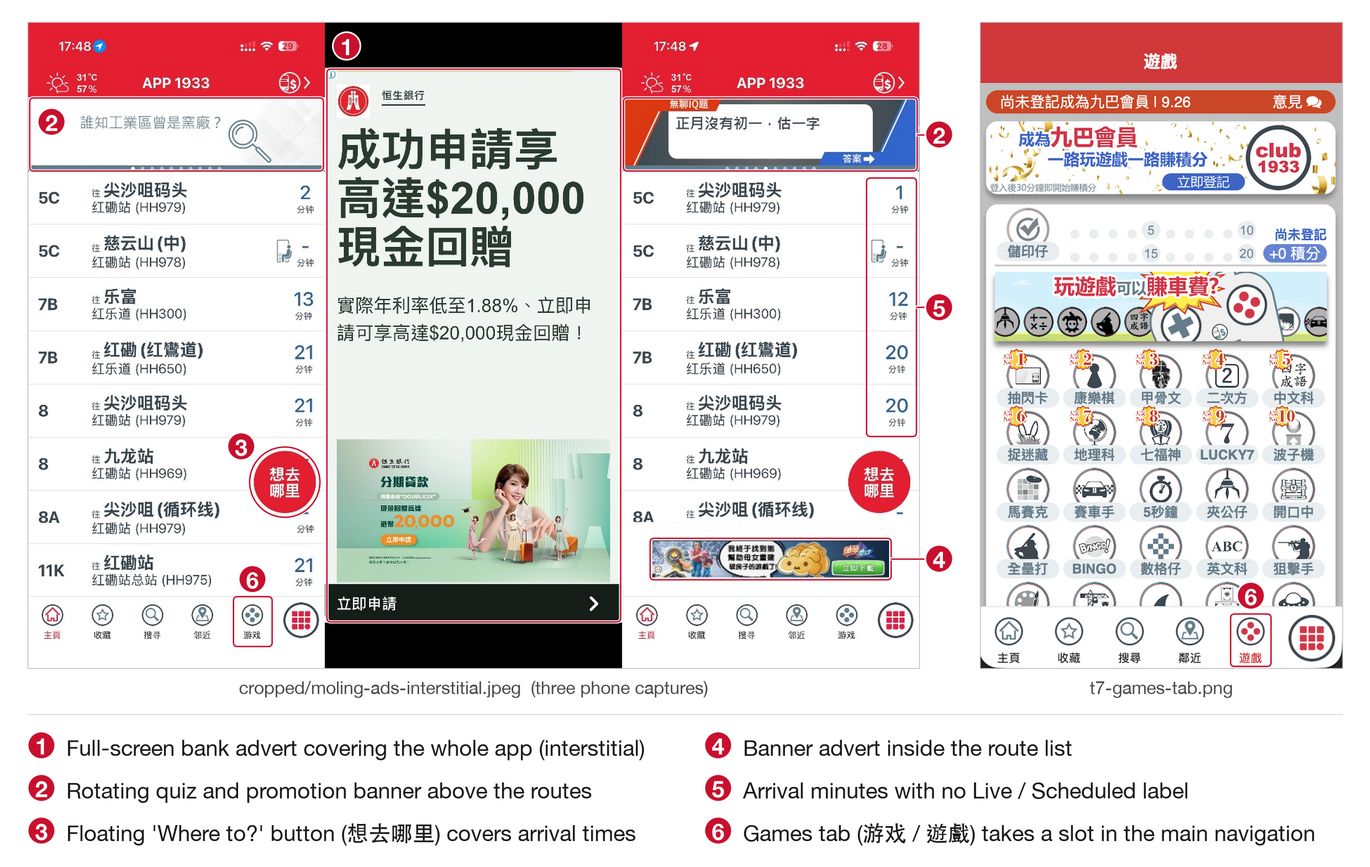
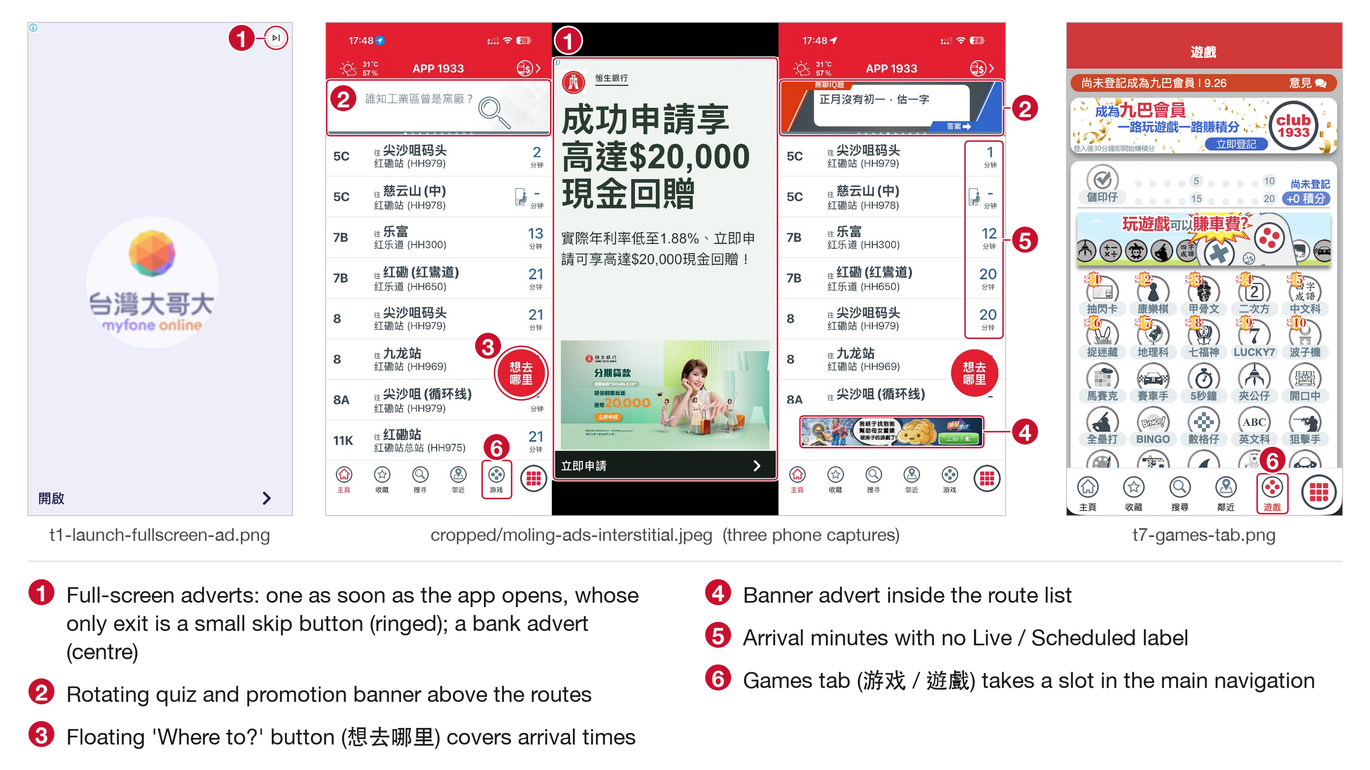
Add iPhone captures of v2.3.39 and correct More menu count to 26
- Seven iPhone screenshots (8 Nov): the full-screen advert shown on
  launch, plus Home, Saved, Search, Games, More and Nearby. Copies are
  in cropped/.
- F1 figure: launch advert added as the left panel, with the small skip
  button ringed. The drafts again say "advert on launch".
- F5 figure now uses the iPhone menu capture: 26 icons. The Mac capture
  cut off the last row, so every "24" in the drafts is now 26.
- Audit: contrast repeated on the iPhone (same failures, plus the
  Nearby empty-state message at 1.66:1); launch-ad skip button size.
- Drafts: banner advert on every main tab; empty Saved gives no hint
  of how to save.

diff --git a/report/figures/annotated/make_figs.py b/report/figures/annotated/make_figs.py
@@ -65,8 +65,14 @@ def f1(outdir):
     ads = Panel(f"{SRC}/cropped/moling-ads-interstitial.jpeg", (0, 0, 1269, 920),
                 "cropped/moling-ads-interstitial.jpeg  (three phone captures)")
     games = png("t7-games-tab.png")
+    # phone capture; drop the black bars above and below the advert (rows 0-141, 1858-1999)
+    launch = Panel(f"{SRC}/t1-launch-fullscreen-ad.png", (0, 142, 920, 1858),
+                   "t1-launch-fullscreen-ad.png")
 
-    def ann(f, a, g):
+    def ann(f, l, a, g):
+        # 1 full-screen advert on opening the app; the only exit is the small skip button
+        f.ring(l, 865, 197, 40)
+        f.marker(l, 1, (745, 197), to=[(825, 197)])
         # 1 full-screen interstitial advert (centre capture)
         f.box(a, 426, 67, 844, 854)
         f.marker(a, 1, (454, 34))
@@ -91,14 +97,14 @@ def f1(outdir):
         f.marker(g, 6, (429, 963))
 
     entries = [
-        (1, "Full-screen bank advert covering the whole app (interstitial)"),
+        (1, "Full-screen adverts: one as soon as the app opens, whose only exit is a small skip button (ringed); a bank advert (centre)"),
         (2, "Rotating quiz and promotion banner above the routes"),
         (3, "Floating 'Where to?' button (想去哪里) covers arrival times"),
         (4, "Banner advert inside the route list"),
         (5, "Arrival minutes with no Live / Scheduled label"),
         (6, "Games tab (游戏 / 遊戲) takes a slot in the main navigation"),
     ]
-    build(f"{outdir}/F1-home-annotated.png", [ads, games], [110], ann, entries,
+    build(f"{outdir}/F1-home-annotated.png", [launch, ads, games], [60, 110], ann, entries,
           ml=50, mr=50, ncol=2)
 
 
@@ -229,35 +235,39 @@ def f4(outdir):
 
 # ---------------------------------------------------------------- F5 More
 def f5(outdir):
-    p1 = png("t6-menu-grid.png")
+    # iPhone capture, v2.3.39: the whole 26-item menu fits on screen
+    p1 = Panel(f"{SRC}/t6-menu-grid-iphone-26-items.png", (0, 0, 920, 2000),
+               "t6-menu-grid-iphone-26-items.png")
     p2 = png("t7-language-no-cancel.png")
 
     def ann(f, a, b):
-        # 1 the 24-icon grid
-        f.box(a, 28, 374, 550, 1007)
-        f.marker(a, 1, (548, 378))
+        # 1 the 26-item grid
+        f.box(a, 58, 572, 862, 1748)
+        f.marker(a, 1, (858, 578))
         # 2 promotions / social media mixed in with service tools
-        f.box(a, 168, 380, 272, 484)
-        f.marker(a, 2, (288, 388))
-        f.box(a, 168, 827, 272, 928)
-        f.marker(a, 2, (288, 834))
-        f.box(a, 433, 827, 537, 928)
-        f.marker(a, 2, (418, 834))
-        f.box(a, 186, 936, 254, 1000)
-        f.marker(a, 2, (275, 966))
+        f.box(a, 279, 582, 429, 735)
+        f.marker(a, 2, (452, 600))
+        f.box(a, 279, 1250, 429, 1402)
+        f.marker(a, 2, (452, 1268))
+        f.box(a, 703, 1250, 853, 1402)
+        f.marker(a, 2, (680, 1268))
+        f.box(a, 279, 1417, 429, 1569)
+        f.marker(a, 2, (452, 1435))
         # 3 no text-size option: bracket on the outer side of the whole menu
-        x, y = f.bracket(a, "L", 374, 1007, 22)
+        x, y = f.bracket(a, "L", 572, 1748, 22)
         f.disc(x - MR + 4, y, 3)
         # 4 language pop-up, no cancel
         f.box(b, 21, 367, 552, 705)
         f.marker(b, 4, (36, 370))
 
     entries = [
-        (1, "24 icons in one unsorted grid"),
+        (1, "26 icons in one unsorted grid"),
         (2, "Promotions and social media (pet bus 寵物巴士, online shopping 網上購物, Facebook, AD HERE) mixed in with service tools"),
         (3, "No text-size or display setting among them"),
         (4, "Language pop-up (請選擇語言) with no Cancel button"),
     ]
+    entries[1] = (2, "Promotions and social media (pet bus 寵物巴士, online shopping 網上購物, "
+                     "Facebook, advertising enquiries 廣告查詢) mixed in with service tools")
     build(f"{outdir}/F5-more-annotated.png", [p1, p2], [80], ann, entries,
           ml=96, mr=50, legend="right", legend_w=960, legend_gap=90, max_scale=1.0)
 

diff --git a/report/figures/audit/contrast_iphone.py b/report/figures/audit/contrast_iphone.py
@@ -1,0 +1,41 @@
+import sys
+from collections import Counter
+from PIL import Image
+
+D = sys.argv[1]
+
+def lin(c):
+    c = c / 255.0
+    return c / 12.92 if c <= 0.04045 else ((c + 0.055) / 1.055) ** 2.4
+
+def lum(p):
+    return 0.2126 * lin(p[0]) + 0.7152 * lin(p[1]) + 0.0722 * lin(p[2])
+
+def ratio(a, b):
+    la, lb = lum(a), lum(b)
+    return (max(la, lb) + 0.05) / (min(la, lb) + 0.05)
+
+def hx(c):
+    return "#%02X%02X%02X" % tuple(c[:3])
+
+ITEMS = [
+    ("t5-nearby-iphone-no-stops.png", (265, 1060, 655, 1118), "Nearby empty state '鄰近沒有任何車站'", 4.5),
+    ("t5-nearby-iphone-no-stops.png", (400, 1455, 520, 1492), "Nearby mode button '車站搜尋' (unselected)", 4.5),
+    ("t5-nearby-iphone-no-stops.png", (638, 1455, 758, 1492), "Nearby mode button '鄰近地標' (unselected)", 4.5),
+    ("t5-nearby-iphone-no-stops.png", (162, 1455, 280, 1492), "Nearby mode button '鄰近車站' (selected)", 4.5),
+    ("t3-search-iphone-keypad-banner-ad.png", (325, 272, 595, 328), "Search placeholder '輸入路線號碼'", 4.5),
+    ("t2-saved-iphone-empty-no-hint.png", (60, 252, 195, 292), "Saved section bar '收藏車站'", 4.5),
+    ("t2-saved-iphone-empty-no-hint.png", (330, 360, 590, 398), "Saved empty state '沒有收藏任何車站'", 4.5),
+    ("t1-home-iphone-no-nearby-stops-banner-ad.png", (360, 1095, 560, 1135), "Home empty state '附近沒有車站'", 4.5),
+    ("t1-home-iphone-no-nearby-stops-banner-ad.png", (345, 160, 575, 215), "Header 'APP 1933' (white on red)", 4.5),
+    ("t6-menu-grid-iphone-26-items.png", (320, 1830, 600, 1895), "More menu version text '程式版本'", 4.5),
+]
+
+for f, box, what, need in ITEMS:
+    px = list(Image.open(f"{D}/{f}").convert("RGB").crop(box).getdata())
+    bg = Counter(px).most_common(1)[0][0]
+    others = sorted((p for p in px if ratio(p, bg) > 1.15), key=lambda p: ratio(p, bg), reverse=True)
+    fg = others[0]
+    robust = others[max(0, len(others) // 20)]  # 95th percentile of text pixels, ignores compression ringing
+    r1, r2 = ratio(fg, bg), ratio(robust, bg)
+    print(f"{what}\tbg {hx(bg)}\textreme {hx(fg)} {r1:.2f}:1\trobust {hx(robust)} {r2:.2f}:1\t{'pass' if r2 >= need else 'FAIL'}")

diff --git a/report/appendix-d-accessibility-audit.md b/report/appendix-d-accessibility-audit.md
@@ -4,6 +4,8 @@
 
 **App audited:** App1933 v2.3.38 (KMB · LWB), the iPhone app, run on a Mac with Apple silicon at the size of a 375 × 667 pt iPhone screen. Interface language 繁體中文.
 
+**Phone check:** on 8 Nov 2026 we also took iPhone screenshots of v2.3.39: the launch advert, Home, Saved, Search, Games, the More menu and Nearby (`*-iphone-*.png`, `t1-launch-fullscreen-ad.png`). They were shared at 920 × 2000 px with lossy compression. For them, the text colour is taken as the 95th percentile of text pixels instead of the single extreme pixel, so compression artefacts cannot inflate the ratio. Script: [figures/audit/contrast_iphone.py](figures/audit/contrast_iphone.py). Every contrast failure found on the Mac build appears on the phone with the same ratio to within 0.05.
+
 ## Method
 
 | Check | How it was measured |
@@ -18,14 +20,14 @@
 | # | Check | Criterion | Result | Evidence |
 |---|---|---|---|---|
 | 1 | Body text, stop names, fares, arrival times, tab labels | 1.4.3 (4.5:1) | **Pass.** Black or near-black text on white, 14.7:1 to 21:1. Blue arrival minutes 9.4:1 (route detail) and 10.6:1 (Saved). Selected tab label in red 6.0:1. | `t1-home-no-location.png`, `t2-stop-expanded-unlabelled-icons.png`, `t2-favourites-after-save.png` |
-| 2 | White text on the red header | 1.4.3 | **Pass, narrowly.** #FFFFFF on #D1383A = 4.84:1. | Figure D.1, panel 4 |
-| 3 | Search placeholder 輸入路線號碼 (the only hint of what to type) | 1.4.3 | **Fail.** #DBDBDB on white = 1.38:1. | Figure D.1, panel 1 |
-| 4 | Nearby mode buttons 鄰近車站 and 鄰近地標 when not selected | 1.4.3 | **Fail.** White on #BABBBB = 1.92:1. These are working buttons, not disabled ones, so the exemption for inactive controls does not apply. | Figure D.1, panel 2 |
-| 5 | White text on the slate bars: Saved section bar 收藏車站, planner summary bar 車程 / 總車資 | 1.4.3 | **Fail, narrowly.** White on #667C89 = 4.37:1. | Figure D.1, panel 3; `t4-planner-N368-no-service-clipped.png` |
+| 2 | White text on the red header | 1.4.3 | **Pass, narrowly.** #FFFFFF on #D1383A = 4.84:1 (Mac build); on the iPhone the red renders as #E51E32, 4.60:1. | Figure D.1, panel 4; `t1-home-iphone-no-nearby-stops-banner-ad.png` |
+| 3 | Search placeholder 輸入路線號碼 (the only hint of what to type) | 1.4.3 | **Fail.** #DBDBDB on white = 1.38:1 (iPhone: 1.36:1). | Figure D.1, panel 1; `t3-search-iphone-keypad-banner-ad.png` |
+| 4 | Nearby screen: unselected mode buttons, selected mode button, empty-state message | 1.4.3 | **Fail.** Unselected buttons: white on #BABBBB = 1.92:1 (iPhone: 1.92:1). These are working buttons, not disabled ones, so the exemption for inactive controls does not apply. On the iPhone the selected button is white on #5F7D8C = 4.31:1. With no stop nearby, the only message on the screen, 鄰近沒有任何車站, is #C9C9C9 on white = 1.66:1. | Figure D.1, panel 2; `t5-nearby-iphone-no-stops.png` |
+| 5 | White text on the slate bars: Saved section bar 收藏車站, planner summary bar 車程 / 總車資 | 1.4.3 | **Fail, narrowly.** White on #667C89 = 4.37:1 (iPhone: #5F7D8C, 4.37:1). | Figure D.1, panel 3; `t4-planner-N368-no-service-clipped.png`; `t2-saved-iphone-empty-no-hint.png` |
 | 6 | Unused letters on the stop-code keypad (B, D, G, I …) | 1.4.3 | **Exempt.** 1.35:1, but they are disabled keys, which WCAG exempts. | `t5-nearby-stop-code-entry.png` |
 | 7 | Icons against their background | 1.4.11 (3:1) | **Pass.** Tab icons 13.0:1; stop action icons (slate circles on white) 4.37:1; favourite star 6.8:1. | Figure D.1, panels 5–6 |
-| 8 | Touch-target size | 2.5.8 (24 pt); Apple 44 pt | **Mixed.** Large enough: tab bar 59 × 62 pt, More button 48 × 48, More grid cells 86 × 61, search keypad keys 70 × 51 and 46 pt circles, stop-code keys 44 × 39, Nearby mode buttons 88 × 46. Meet 24 pt but are under 44 pt: route header icons (timetable, notices, swap) 29 pt; the four stop action icons 26 pt across with centres 33 pt apart; language options 300 × 39; back button 43 × 46. **Fail 2.5.8:** the favourite star in planner results (a box about 17 pt wide) sits inside the result row, which is itself a target, so the spacing exception cannot apply. The planner field's clear button is about 20 pt and sits inside the field; if it is the iOS system clear button, WCAG's user-agent exception covers it. The Saved edit pencil is a 15 pt glyph; its tap area is not exposed, so it could not be measured. | Figure D.1, panels 5–6 |
-| 9 | Text scaling | 1.4.4 | **Fail (in-app); system setting not yet tested.** The More menu lists 24 icons and two text links (九巴會員 … 語言選擇, 資料修復, 使用條款), and none of them changes text size. At the default size, text is already cut off in four places: Home row 中環 (港澳碼頭) -…, route title 8 往 九龍站,高鐵站 (YT…, planner stop 16. HH600) 紅隧轉車 (cut mid-word with no ellipsis) and 暫時沒有預定班次 (. Larger text can only make this worse. Whether the app follows the iPhone's Larger Text setting must be checked on a phone. | `t1-home-no-location.png`, `t2-stop-expanded-unlabelled-icons.png`, `t4-planner-N368-no-service-clipped.png`, `t6-menu-grid.png` |
+| 8 | Touch-target size | 2.5.8 (24 pt); Apple 44 pt | **Mixed.** Large enough: tab bar 59 × 62 pt, More button 48 × 48, More grid cells 86 × 61, search keypad keys 70 × 51 and 46 pt circles, stop-code keys 44 × 39, Nearby mode buttons 88 × 46. Meet 24 pt but are under 44 pt: route header icons (timetable, notices, swap) 29 pt; the four stop action icons 26 pt across with centres 33 pt apart; language options 300 × 39; back button 43 × 46. **Fail 2.5.8:** the favourite star in planner results (a box about 17 pt wide) sits inside the result row, which is itself a target, so the spacing exception cannot apply. The planner field's clear button is about 20 pt and sits inside the field; if it is the iOS system clear button, WCAG's user-agent exception covers it. The Saved edit pencil is a 15 pt glyph; its tap area is not exposed, so it could not be measured. The skip button on the full-screen advert shown at launch is 53 px wide on a 920 px phone capture: 6% of the screen width, roughly 22–25 pt on a phone 375–430 pt wide. That is about the 24 pt minimum and well under 44 pt, and it is the only way past the advert. | Figure D.1, panels 5–6; `t1-launch-fullscreen-ad.png` |
+| 9 | Text scaling | 1.4.4 | **Fail (in-app); system setting not yet tested.** The More menu has 26 items (九巴會員 … 使用條款; all visible in the iPhone capture of v2.3.39), and none of them changes text size. At the default size, text is already cut off in four places: Home row 中環 (港澳碼頭) -…, route title 8 往 九龍站,高鐵站 (YT…, planner stop 16. HH600) 紅隧轉車 (cut mid-word with no ellipsis) and 暫時沒有預定班次 (. Larger text can only make this worse. Whether the app follows the iPhone's Larger Text setting must be checked on a phone. | `t1-home-no-location.png`, `t2-stop-expanded-unlabelled-icons.png`, `t4-planner-N368-no-service-clipped.png`, `t6-menu-grid-iphone-26-items.png` |
 | 10 | Screen-reader names and roles | 1.1.1, 4.1.2 | **Fail (provisional).** *Exposed with useful names:* the six tab buttons (主頁, 收藏, 搜尋, 鄰近, 遊戲, 其他頁面目錄); all 26 items in the More menu; the three language options; the route back button; stop markers on the route map. *Not exposed at all:* on Home, the route rows, the advert banner, the location prompt, the weather and fare buttons, and the 想去邊度 trip-planner button; on route detail, the timetable, notice and swap icons and the whole stop list, including the four stop action icons; on Saved, the saved stop and its arrival time, and the edit button; on Search, the keypad and the result list; on Nearby, the stop-code keypad and the three mode buttons. *Wrong role:* the More menu's 關閉 (Close) is exposed as plain text, not as a button; the search box is exposed as static text, not as a text field. *Language:* the back button is named "Go back" in English while the interface is in Chinese (3.1.2 Language of Parts). | Table D.2 |
 
 > **Figure D.1** Contrast failures and small targets in App1933 v2.3.38. File: [figures/audit/appendix-d-contrast-targets.png](figures/audit/appendix-d-contrast-targets.png). Red boxes are contrast failures, green is a pass, blue marks measured targets.
@@ -64,7 +66,7 @@
 
 ## Lines for the report (§2 or §4, about 60 words)
 
-> We audited App1933 v2.3.38 against four WCAG basics (Appendix D). Main text passes contrast, but the search placeholder (1.38:1), the Nearby mode buttons (1.92:1) and the slate section bars (4.37:1) fail WCAG 1.4.3. The four stop icons are 26 pt, below the 44 pt guideline, and the planner's star fails WCAG 2.5.8. There is no text-size setting, text is already cut off at the default size, and most of the app's content and icon buttons are not exposed to screen readers.
+> We audited App1933 v2.3.38 against four WCAG basics and repeated the contrast checks on an iPhone running v2.3.39 (Appendix D). Main text passes contrast, but the search placeholder (1.4:1), the Nearby mode buttons (1.9:1) and empty-state message (1.7:1), and the slate section bars (4.4:1) fail WCAG 1.4.3. The four stop icons are 26 pt, below the 44 pt guideline, and the planner's star fails WCAG 2.5.8. There is no text-size setting, text is already cut off at the default size, and most of the app's content and icon buttons are not exposed to screen readers.
 
 Adjust the last sentence once the phone checks are done.
 

diff --git a/report/04-feature-details.md b/report/04-feature-details.md
@@ -6,11 +6,11 @@
 
 ## 4.1 F1 Home: saved routes first, honest arrival times, no pop-up ads
 
-**(a) Problem in the existing app.** On a phone, a full-screen bank advert can cover the whole app (Figure 4.1a, centre). Home leads with a rotating banner of quizzes and promotions, a floating "想去哪里" button covers part of the list, and a second banner advert sits at the bottom (right). Routes are listed by stop, not by what the user saved. On Home and in 收藏, the arrival column shows bare numbers, so a live estimate and a scheduled departure look the same; only the expanded stop in route detail adds 預定班次 (Scheduled) to scheduled times. The bottom bar gives a whole tab to mini-games.
+**(a) Problem in the existing app.** Opening App1933 on a phone shows a full-screen advert straight away (Figure 4.1a, left). The only way past it is a small skip button (▶|) in the top corner, about 6% of the screen width, while a full-width 開啟 (Open) bar at the bottom belongs to the advert. Our other phone captures show a second full-screen advert, for a bank (centre). Home then leads with a rotating banner of quizzes and promotions, a floating "想去哪里" button (renamed 智能問路 in v2.3.39) covers part of the list, and a second banner advert sits at the bottom (right). Our iPhone captures of v2.3.39 show a banner advert above the tab bar on every main tab: Home, 收藏, 搜尋, 鄰近 and 遊戲 (`*-iphone-*.png`). Routes are listed by stop, not by what the user saved. On Home and in 收藏, the arrival column shows bare numbers, so a live estimate and a scheduled departure look the same; only the expanded stop in route detail adds 預定班次 (Scheduled) to scheduled times. The bottom bar gives a whole tab to mini-games.
 
-> **Figure 4.1a** Annotated originals: [figures/annotated/F1-home-annotated.png](figures/annotated/F1-home-annotated.png). Sources: `cropped/moling-ads-interstitial.jpeg` (three phone captures, app set to Simplified Chinese) and `t7-games-tab.png`. Callouts: ① full-screen advert covering the app; ② rotating quiz and promotion banner; ③ floating button covering arrival times; ④ banner advert in the list; ⑤ arrival minutes with no Live/Scheduled label; ⑥ Games tab in the main navigation.
+> **Figure 4.1a** Annotated originals: [figures/annotated/F1-home-annotated.png](figures/annotated/F1-home-annotated.png). Sources: `t1-launch-fullscreen-ad.png` (phone capture taken right after opening the app), `cropped/moling-ads-interstitial.jpeg` (three phone captures, app set to Simplified Chinese) and `t7-games-tab.png`. Callouts: ① full-screen adverts, the first shown on opening with only a small skip button; ② rotating quiz and promotion banner; ③ floating button covering arrival times; ④ banner advert in the list; ⑤ arrival minutes with no Live/Scheduled label; ⑥ Games tab in the main navigation.
 
-**(b) HCI principles.** *Violated:* user control and freedom (H3) and flexibility and efficiency of use (H7), since the user must wait for or dismiss an advert to reach the one piece of information they came for; visibility of system status (H1), because live and scheduled times cannot be told apart; aesthetic and minimalist design (H8). Forced, interrupting adverts are a known cause of irritation and avoidance (Edwards et al., 2002), and making them hard to dismiss is a dark pattern (Gray et al., 2018). For older passengers in our journey research, a sudden full-screen advert also looked like a scam. *Applied:* H7, H1, H3, H8.
+**(b) HCI principles.** *Violated:* user control and freedom (H3) and flexibility and efficiency of use (H7), since the user must wait for or dismiss an advert to reach the one piece of information they came for; visibility of system status (H1), because live and scheduled times cannot be told apart; aesthetic and minimalist design (H8). Forced, interrupting adverts are a known cause of irritation and avoidance (Edwards et al., 2002), and making them hard to dismiss, here a small skip icon beside a full-width 開啟 bar, is a dark pattern (Gray et al., 2018). For older passengers in our journey research, a sudden full-screen advert also looked like a scam. *Applied:* H7, H1, H3, H8.
 
 **(c) Redesign** (Figure 4.1b).
 
@@ -29,7 +29,7 @@
 
 ## 4.2 F2 One-tap save and route detail
 
-**(a) Problem in the existing app.** In route detail, the selected stop shows a column of four unlabelled round icons (bell, clock, pin, ≡) next to decorative district trivia (Figure 4.2a, left). Saving a stop means knowing that ≡ hides a menu, opening it, and choosing 收藏此車站 from a dark pop-up that covers the screen (centre); in our count this takes seven taps from Home. The saved stop then appears in 收藏 as a bare number with no live or scheduled label (right). Above the list, the route map is covered with mascot graphics, and when a route has no service the message is cut off without a reason (`t4-planner-N368-no-service-clipped.png`).
+**(a) Problem in the existing app.** In route detail, the selected stop shows a column of four unlabelled round icons (bell, clock, pin, ≡) next to decorative district trivia (Figure 4.2a, left). Saving a stop means knowing that ≡ hides a menu, opening it, and choosing 收藏此車站 from a dark pop-up that covers the screen (centre); in our count this takes seven taps from Home. The saved stop then appears in 收藏 as a bare number with no live or scheduled label (right). With nothing saved, 收藏 shows only 沒有收藏任何車站 (no saved stops) and gives no hint of how to save one (`t2-saved-iphone-empty-no-hint.png`). Above the list, the route map is covered with mascot graphics, and when a route has no service the message is cut off without a reason (`t4-planner-N368-no-service-clipped.png`).
 
 > **Figure 4.2a** Annotated originals: [figures/annotated/F2-save-annotated.png](figures/annotated/F2-save-annotated.png). Sources: `t2-stop-expanded-unlabelled-icons.png`, `t2-hidden-save-stop-menu.png`, `t2-favourites-after-save.png`, `t3-route-detail-map-mascots.png`. Callouts: ① four icons with no labels; ② save hidden behind ≡; ③ pop-up menu covers the content; ④ decorative text and "?" graphics compete with the stop list; ⑤ saved stop shows no Live/Scheduled label; ⑥ mascots cover stops on the map.
 
@@ -96,9 +96,9 @@
 
 ## 4.5 F5 More menu and accessibility
 
-**(a) Problem in the existing app.** The grid button opens 24 icons in no particular order, mixing membership, pet buses, online shopping, social media and service information (Figure 4.5a, left). The language menu is a dark pop-up with no cancel button (right). None of the 24 items changes text size, and long names are already cut off at the default size (Appendix D, check 9), so older passengers cannot enlarge arrival times in the app. [Confirm with the phone test in Appendix D before adding: "and it ignores the phone's own text size".] Our audit also found low-contrast labels (1.38:1 to 4.37:1) and icon buttons with no screen-reader label (Appendix D).
+**(a) Problem in the existing app.** The grid button opens 26 icons in no particular order, mixing membership, pet buses, online shopping, social media and service information (Figure 4.5a, left). The language menu is a dark pop-up with no cancel button (right). None of the 26 items changes text size, and long names are already cut off at the default size (Appendix D, check 9), so older passengers cannot enlarge arrival times in the app. [Confirm with the phone test in Appendix D before adding: "and it ignores the phone's own text size".] Our audit also found low-contrast labels (1.4:1 to 4.4:1, confirmed on an iPhone) and icon buttons with no screen-reader label (Appendix D).
 
-> **Figure 4.5a** Annotated originals: [figures/annotated/F5-more-annotated.png](figures/annotated/F5-more-annotated.png). Sources: `t6-menu-grid.png`, `t7-language-no-cancel.png`. Callouts: ① 24 unsorted icons; ② promotions and social media mixed with service tools; ③ no text-size or display setting in the menu; ④ language pop-up with no way to cancel.
+> **Figure 4.5a** Annotated originals: [figures/annotated/F5-more-annotated.png](figures/annotated/F5-more-annotated.png). Sources: `t6-menu-grid-iphone-26-items.png` (iPhone, v2.3.39), `t7-language-no-cancel.png`. Callouts: ① 26 unsorted icons; ② promotions and social media mixed with service tools; ③ no text-size or display setting in the menu; ④ language pop-up with no way to cancel.
 
 **(b) HCI principles.** *Violated:* Hick's law (Hick, 1952), since decision time grows with the number of undifferentiated choices; aesthetic and minimalist design (H8); user control and freedom (H3) in the language pop-up; WCAG 1.4.4 Resize Text. *Applied:* Hick's law, H8, H3, H6, WCAG 1.4.4, 1.4.3 and 1.4.1.
 

diff --git a/final-deliverables-plan.md b/final-deliverables-plan.md
@@ -128,7 +128,7 @@ Production notes: demo the zh-HK prototype (more complete than the tested en-GB 
 2. **Per-participant raw export from Maze** (CSV with timestamps): markers check "timestamps, per-participant, per-task metrics", which neither the PDF nor the shared online report contains (the online report shows aggregated paths only). Export it from the Maze project's Results page before the plan or trial expires. *Chenyang (asked 8 Nov).*
 3. **Task script:** done; verbatim wording of all 21 blocks is in [user-test/maze-figures.md](user-test/maze-figures.md) §3.
 4. **Accessibility audit of the original app** (bonus 2%: "documented accessibility audit of the existing app (e.g. WCAG basics: contrast, touch target size, text scaling, screen-reader compatibility)"). Owner: Moling. **Mostly done (8 Nov):** [report/appendix-d-accessibility-audit.md](report/appendix-d-accessibility-audit.md) has the method, a 10-row results table, Figure D.1 ([report/figures/audit/appendix-d-contrast-targets.png](report/figures/audit/appendix-d-contrast-targets.png)), a per-screen table of what the app exposes to screen readers, about 60 words for §2 or §4, and how the redesign answers each finding. Results:
-   - Contrast: main text passes. Search placeholder 1.38:1, Nearby mode buttons 1.92:1 and the slate bars 4.37:1 fail.
+   - Contrast: main text passes. Search placeholder 1.38:1, Nearby mode buttons 1.92:1 and the slate bars 4.37:1 fail. All three are confirmed on an iPhone (v2.3.39, 8 Nov), which also shows the Nearby empty-state message at 1.66:1.
    - Targets: stop icons 26 pt (meet 24 pt, under 44 pt); the planner star fails WCAG 2.5.8.
    - Text: no text-size setting in the app; text already cut off at the default size.
    - Screen reader: tabs, the More menu and the language options are labelled. Route rows, stop lists, keypads and all icon-only buttons are not exposed (provisional).
@@ -138,7 +138,11 @@ Production notes: demo the zh-HK prototype (more complete than the tested en-GB 
    - Format: 2480 px wide at 400 dpi (15.7 cm in Word). Numbered red callouts with an English legend.
    - Screenshot pixels unchanged: only the Mac window frame was cropped off.
    - Every callout was checked against the screenshot, and the 04 draft's figure captions now match.
-   - Draft claims the screenshots did not support were softened: "advert on launch", "a daytime search", "changes the boarding and alighting stops", "no text-size option anywhere". Restore any of them only with a capture that shows it.
+   - Draft claims the screenshots did not support were softened: "a daytime search", "changes the boarding and alighting stops", "no text-size option anywhere". Restore any of them only with a capture that shows it.
+   - "Advert on launch" is back in the drafts, now backed by a phone capture taken right after opening the app: `t1-launch-fullscreen-ad.png`, added 8 Nov as the left panel of F1.
+   - F5 now uses the iPhone capture of the More menu (v2.3.39). It shows 26 icons; the Mac capture had cut off the last row, so the drafts now say 26.
+   - Six iPhone captures of v2.3.39 (8 Nov, `*-iphone-*.png`) add two points to the drafts: a banner advert on every main tab, and an empty 收藏 with no hint of how to save.
+   - Their Home and Nearby show "no stops nearby" and carry Japanese-language ads, which suggests the phone was outside Hong Kong. Use them for these points only, not as a typical Home.
    - `make_figs.py` re-renders the figures.
 6. **Xulu Zhang's SID** for the cover page. *Haochen will fill it in.*
 7. **References:** done. [report/references.md](report/references.md) has:

diff --git a/report/03-overall-design.md b/report/03-overall-design.md
@@ -24,7 +24,7 @@ Figure 3.1 shows the dual-track journey map. In both tracks the lowest emotional
 
 | Journey stage | Main pain point (existing app) | Addressed by |
 |---|---|---|
-| Opening the app | A full-screen advert can cover the app; saved routes buried | F1 Home |
+| Opening the app | Full-screen advert on launch with only a small skip button; saved routes buried | F1 Home |
 | Searching | Search only accepts route numbers; origin can show "null"; the AI suggestion changes the boarding stop; nearby search wants a stop code | F3 Trip planning, F4 Nearby |
 | Reading and waiting | No way to enlarge text; a floating button covers arrival times; on Home, live and scheduled times look the same | F1 Home, F2 Route detail, F5 Accessibility |
 | Saving for next time | Saving a stop takes seven taps behind an unlabelled ≡ icon | F2 One-tap save |
@@ -35,7 +35,7 @@ Figure 3.1 shows the dual-track journey map. In both tracks the lowest emotional
 
 ## 3.3 Information architecture
 
-The existing app spreads its functions across a bottom bar of six items (Home, Favourites, Search, Nearby, **Games**, and a grid button that opens 24 unsorted icons). We reduced this to five labelled tabs, each mapped to one user goal (Figure 3.2):
+The existing app spreads its functions across a bottom bar of six items (Home, Favourites, Search, Nearby, **Games**, and a grid button that opens 26 unsorted icons). We reduced this to five labelled tabs, each mapped to one user goal (Figure 3.2):
 
 | Tab | 主頁 Home | 行程 Trip | 附近 Nearby | 收藏 Saved | 更多 More |
 |---|---|---|---|---|---|
@@ -81,7 +81,7 @@ Table 3.2 lists the decisions that apply across the whole app and the principle 
 | Saved routes and next arrivals are the first content on Home; no launch advert | F1 | Flexibility and efficiency of use (Nielsen, 1994, H7); intrusive ads raise irritation and avoidance (Edwards et al., 2002) |
 | Every arrival carries a text label, **實時** Live or **預定** Scheduled, as well as a colour | F1, F2, F4, F3A | Visibility of system status (H1); colour is never the only cue (WCAG 1.4.1) |
 | A status line shows the last update; offline and disruption states say what is wrong and what to do | F1, S5, S6, S7 | Visibility of system status (H1); real-time information builds trust only when its reliability is clear (Ferris et al., 2010; Watkins et al., 2011) |
-| Five labelled tabs instead of six items plus a grid of 24 icons; settings grouped into three headed sections | Tab bar, F5 | Hick's law (Hick, 1952); recognition rather than recall (H6) |
+| Five labelled tabs instead of six items plus a grid of 26 icons; settings grouped into three headed sections | Tab bar, F5 | Hick's law (Hick, 1952); recognition rather than recall (H6) |
 | Primary actions are large, full-width buttons; ☆ and row targets are at least 44 pt; navigation sits in the bottom tab bar within thumb reach | All | Fitts' law (Fitts, 1954); one-handed thumb use (Parhi et al., 2006); Apple's recommended 44 × 44 pt control size (Apple, n.d.) |
 | Search by place name, with the origin preset to the current location | F3, S4 | Match between system and the real world (H2); recognition rather than recall (H6); error prevention (H5) |
 | Undo instead of confirmation dialogs for save and remove; confirmation only for "remove all" | F2A, Saved | User control and freedom (H3); permit easy reversal of actions (Shneiderman et al., 2016) |

diff --git a/report/references.md b/report/references.md
@@ -116,7 +116,7 @@ In-text forms: (Apple, n.d.); (World Wide Web Consortium [W3C], 2024) on first u
 - **DOI:** https://doi.org/10.1080/17470215208416600
 - **Checked:** Crossref DOI record; publisher abstract (via OpenAlex), 8 Nov 2026.
 - **Finding:** In choice-reaction experiments with up to ten alternatives, reaction time rose with the amount of information in the choice, which grows with the logarithm of the number of alternatives; people gained information at roughly five bits per second.
-- **Used for:** F5 three headed groups instead of 24 unsorted icons; five labelled tabs; our position against adding a sixth map tab (test finding 8). Caveat: the experiments used equally likely, unpractised choices.
+- **Used for:** F5 three headed groups instead of 26 unsorted icons; five labelled tabs; our position against adding a sixth map tab (test finding 8). Caveat: the experiments used equally likely, unpractised choices.
 
 ### 2.12 Nielsen (1994)
 - **DOI:** https://doi.org/10.1145/191666.191729
@@ -182,7 +182,7 @@ Edwards et al. show that pop-ups feel most intrusive when people are focused on 
 *Hick (1952); Nielsen (1994); Chandler & Sweller (1991); Zaphiris et al. (2005)*
 
 Hick's law, Nielsen's minimalist-design heuristic (H8) and the ageing guidelines of Zaphiris et al. ("provide fewer choices", "avoid irrelevant information") reach the same advice from experiment, practice and literature review. Hick's experiments used equally likely, unpractised choices, so in a familiar menu grouping and clear labels matter as much as the raw number of items, which is why we grouped settings rather than only cutting them. Chandler and Sweller add a sharper warning: even information that seems useful harms understanding when it is not essential. Our lowest comprehension result fits this: only 3/9 picked out the 2-minute walk on a card that repeats its time values, though the question's wording may also have played a part.
-→ so in F5 we replaced 24 unsorted icons with three headed groups and kept five tabs, declining a sixth map tab; in F3 the recommended card leads with the total time people decide on, and collapsing its step list by default is a future change.
+→ so in F5 we replaced 26 unsorted icons with three headed groups and kept five tabs, declining a sixth map tab; in F3 the recommended card leads with the total time people decide on, and collapsing its step list by default is a future change.
 
 ### D. Signifiers, feedback and reversible actions (F2, F3)
 *Norman (2013); Shneiderman et al. (2016); Nielsen (1994); W3C (2024)*

diff --git a/CLAUDE.md b/CLAUDE.md
@@ -8,7 +8,7 @@ This folder holds the materials for a COMP3423 (Human–Computer Interaction, Po
 
 - `Group-Project-Description.pdf`: the brief and the full grading rubric (Appendix II). Due **15 Nov 2026, 23:59**. Deliverables: a report (Word or PDF, at most 20 pages), a PPT, a video of at most 10 minutes, a public Figma prototype covering at least 5 features, and a Maze test with at least 5 real participants.
 - `COMP3423_Mid-Project_Checkpoint_App1933.docx`: the checkpoint report. It covers team roles, target users (elderly passengers; students and commuters), the user journey, features F1–F5 and the Maze plan. It is the main source for project decisions.
-- `original-app-screenshots/`: screenshots of the real existing app (v2.3.38), in Traditional Chinese. File names follow `t<N>-<what is wrong>.png`, where `t1`–`t7` group them by area, roughly onboarding, save, search, planner, nearby, menu and misc. `cropped/` has byte-identical copies of the PNGs plus two annotated phone captures, `moling-*.jpeg`, by Moling Kong.
+- `original-app-screenshots/`: screenshots of the real existing app (v2.3.38), in Traditional Chinese. File names follow `t<N>-<what is wrong>.png`, where `t1`–`t7` group them by area, roughly onboarding, save, search, planner, nearby, menu and misc. `cropped/` has byte-identical copies of the PNGs plus two annotated phone captures, `moling-*.jpeg`, by Moling Kong. Most PNGs are 576 × 1082 captures of v2.3.38 running on a Mac. `t1-launch-fullscreen-ad.png` and the `*-iphone-*.png` files are iPhone captures of v2.3.39 taken on 8 Nov 2026 (920 × 2000, lossy).
 - `assets/`: the official App1933 icon (`icon-app1933_gplay_512px.png`).
 - `user-test/`: the completed Maze test (9 participants, run in English on the en-GB prototype). `maze_official_report.pdf` is the 50-page Maze report, image-only, so `pdftotext` returns nothing: render pages with `pdftoppm` to read them. `user_feedback.docx` holds the researcher's per-task coding (direct, indirect, failed), ease ratings and participants' comments. `maze-figures.md` is a page-referenced transcription of the Maze PDF: use it to look up numbers, and cite the PDF page. `user-test-summary.docx` is a **secondary write-up**: its recommendations and interpretations are not the participants'. Never cite it as evidence; the evidence is the Maze PDF and `user_feedback.docx`.
 - Project documents (report drafts, plan, slides, notes) present all work as the group's. They never mention the tools used to produce the design or the documents.
